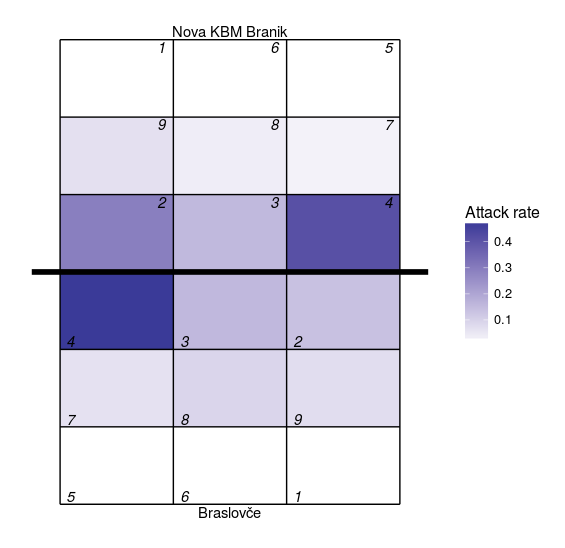
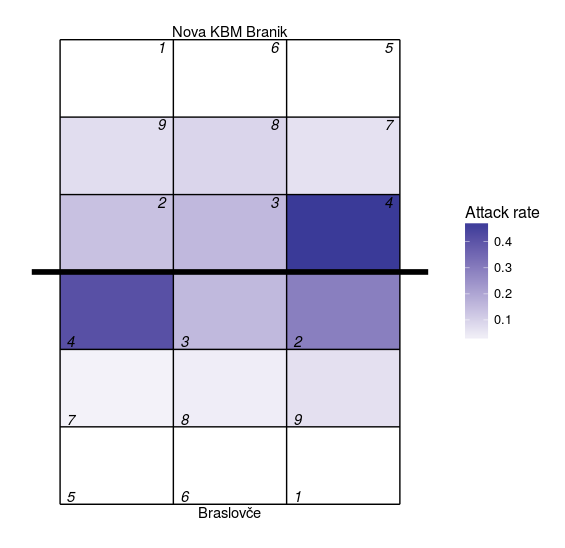
typo in examples

Changed region(s): [[0.0903, 0.3412, 0.331, 0.6515], [0.4814, 0.3412, 0.7221, 0.6515]]

diff --git a/README.md b/README.md
@@ -53,6 +53,7 @@ table(unique(serve_run_info[,c("run_id","run_length")])$run_length)
 Heatmap of attack rate by court position:
 
 ```R
+library(ggplot2)
 ## calculate attack frequency by zone, per team
 attack_rate <- ddply(subset(plays(x),skill=="Attack"),.(team),function (z)
   ddply(z,.(start_zone),function (w)
@@ -60,7 +61,7 @@ attack_rate <- ddply(subset(plays(x),skill=="Attack"),.(team),function (z)
 ## add x,y coordinates associated with the zones
 attack_rate <- cbind(attack_rate,ggxy(attack_rate$start_zone,end="lower"))
 ## for team 2, these need to be on the top half of the diagram
-tm2 <- attack_rate$team==attack_rate$team[2]
+tm2 <- attack_rate$team==x$meta$teams$team[2]
 attack_rate[tm2,c("x","y")] <- ggxy(attack_rate$start_zone,end="upper")[tm2,]
 ggplot(attack_rate,aes(x,y,fill=rate))+geom_tile()+ggcourt(labels=x$meta$teams$team)+
   scale_fill_gradient2(name="Attack rate")
